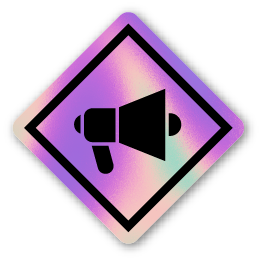
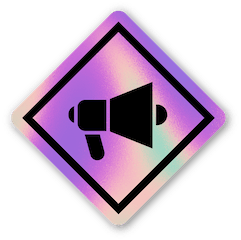
Update images to SVG. Re-export PNGs to the right size and reduce color palette.

diff --git a/src/components/15Years/15YearsTimelineData.js b/src/components/15Years/15YearsTimelineData.js
@@ -6,7 +6,7 @@ export default [
 		year: '2005',
 		title: 'Humble but strong beginnings',
 		blurb: 'Kiva lenders make Kiva’s first loan to a woman named Elizabeth, who expanded her fishing business in Uganda. PayPal joins Kiva, providing free payment processing and ensuring 100% of every dollar lent goes to funding loans.',
-		sticker: '2005-2.png',
+		sticker: '2005-2.svg',
 		cta: 'Lend now',
 		link: '/lend',
 	},
@@ -14,7 +14,7 @@ export default [
 		year: '2006',
 		title: 'Supporting women everywhere',
 		blurb: 'After a year as an organization, the Kiva community has funded over $1 million in loans to women.',
-		sticker: 'Repaid.png',
+		sticker: 'Repaid.svg',
 		cta: 'Lend to women',
 		link: '/lend-by-category/women'
 	},
@@ -30,7 +30,7 @@ export default [
 		year: '2008',
 		title: 'Recognized as one of the best',
 		blurb: 'The Skoll Foundation grants Kiva $1 million, recognizing Kiva as one of the world’s best social enterprises.',
-		sticker: 'Partner-1.png',
+		sticker: 'Partner-1.svg',
 		cta: 'Our partners',
 		link: '/partner-with-us/our-partners'
 	},
@@ -38,7 +38,7 @@ export default [
 		year: '2009',
 		title: 'Lending a hand to 300,000 people',
 		blurb: 'After four years, Kiva has funded nearly 300,000 borrowers and distributed over $112 million in loans.',
-		sticker: 'BorrowerWeb.png',
+		sticker: 'BorrowerWeb.svg',
 		cta: 'Lend now',
 		link: '/lend'
 	},
@@ -62,7 +62,7 @@ export default [
 		year: '2012',
 		title: 'Half a million helped',
 		blurb: 'After seven years, Kiva has funded 500,000 borrowers in 73 different countries, thanks to a large network of Field Partners and lenders.',
-		sticker: 'BorrowerWeb-2.png',
+		sticker: 'BorrowerWeb-2.svg',
 		cta: 'Lend now',
 		link: '/lend'
 	},
@@ -102,7 +102,7 @@ export default [
 		year: '2017',
 		title: '2.8 million borrowers funded',
 		blurb: '1.4 million loans have been funded around the world after 12 years as an organization with a 96% repayment rate.',
-		sticker: 'Repayment-2.png',
+		sticker: 'Repayment-2.svg',
 		cta: 'Lend now',
 		link: '/lend'
 	},

diff --git a/src/components/15Years/15YearsTimeline.vue b/src/components/15Years/15YearsTimeline.vue
@@ -400,13 +400,10 @@ export default {
 		transform: scale(0);
 		opacity: 0;
 		transition: transform 1s ease-in-out, opacity 1s ease-in-out;
-		filter: opacity(0.4) drop-shadow(0 0 0 red); // TODO: Remove once SVG assets are in
 
 		&--svg {
 			display: block;
 			width: 100%;
-			filter: none; // TODO: Remove once SVG assets are in
-			// flex: 1;
 		}
 	}
 
